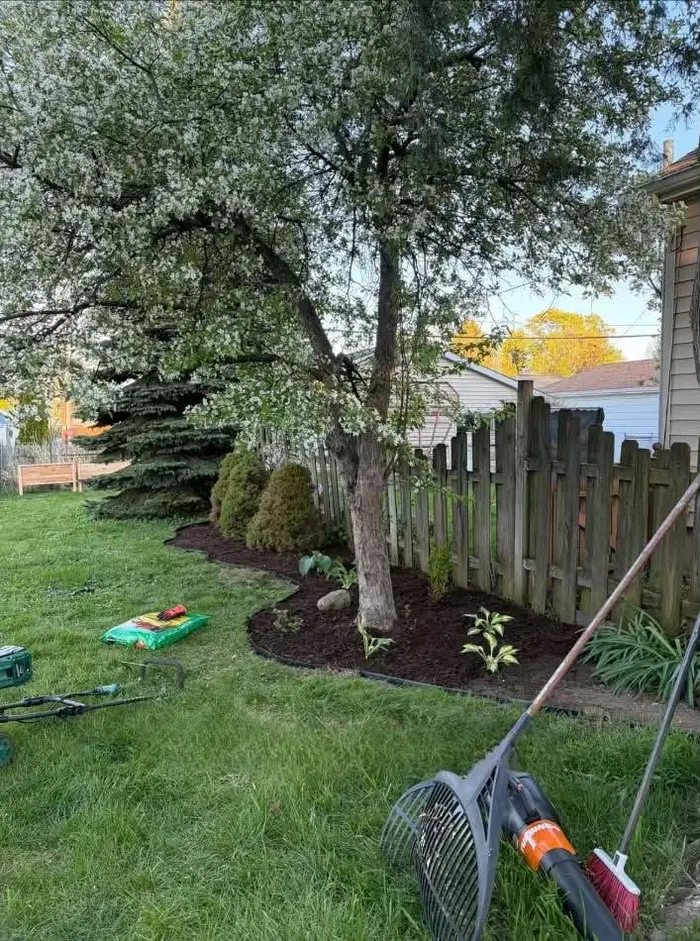
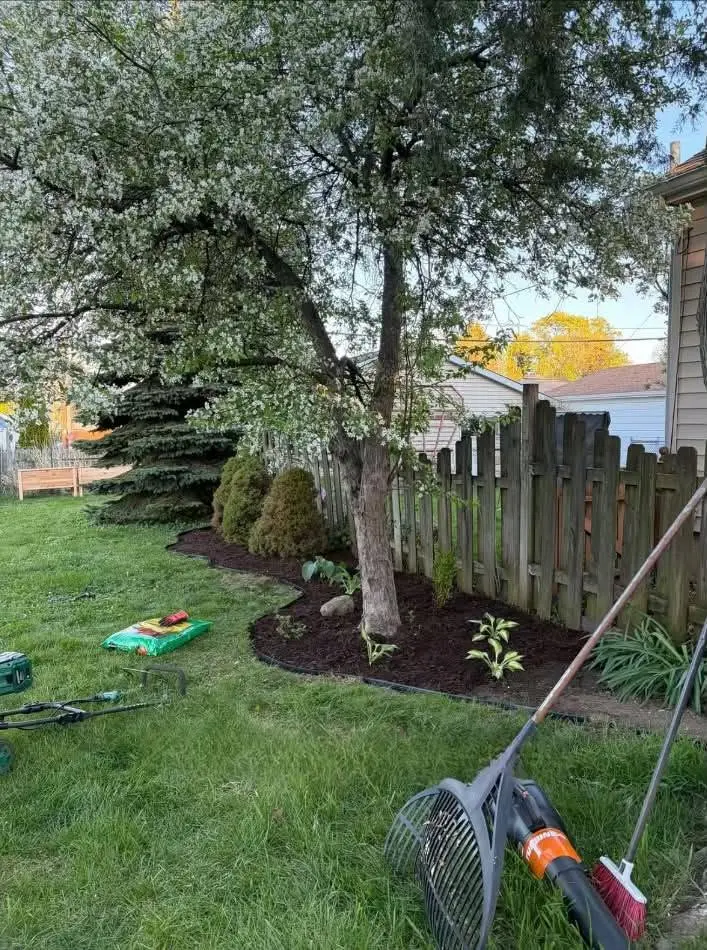
premier-landscaping: add tree bed before/after pair
Fourth pair was in the source photos but got cut for page weight;
adding it back at native resolution (no upscale needed, source was
already under 1000px wide).

diff --git a/premier-landscaping/index.html b/premier-landscaping/index.html
@@ -325,6 +325,19 @@ footer{background:var(--navy);border-top:1px solid rgba(232,160,32,0.12);padding
           </figure>
         </div>
       </div>
+      <div class="ba-pair">
+        <h3>Tree Bed &amp; Mulching</h3>
+        <div class="ba-images">
+          <figure>
+            <img src="img/before-tree-bed.webp" alt="Bare yard before tree bed mulch installation in Dinwiddie VA" loading="lazy">
+            <figcaption>Before</figcaption>
+          </figure>
+          <figure>
+            <img src="img/after-tree-bed.webp" alt="New mulched tree bed with edging and plantings in Dinwiddie VA" loading="lazy">
+            <figcaption>After</figcaption>
+          </figure>
+        </div>
+      </div>
     </div>
   </div>
 </section>
